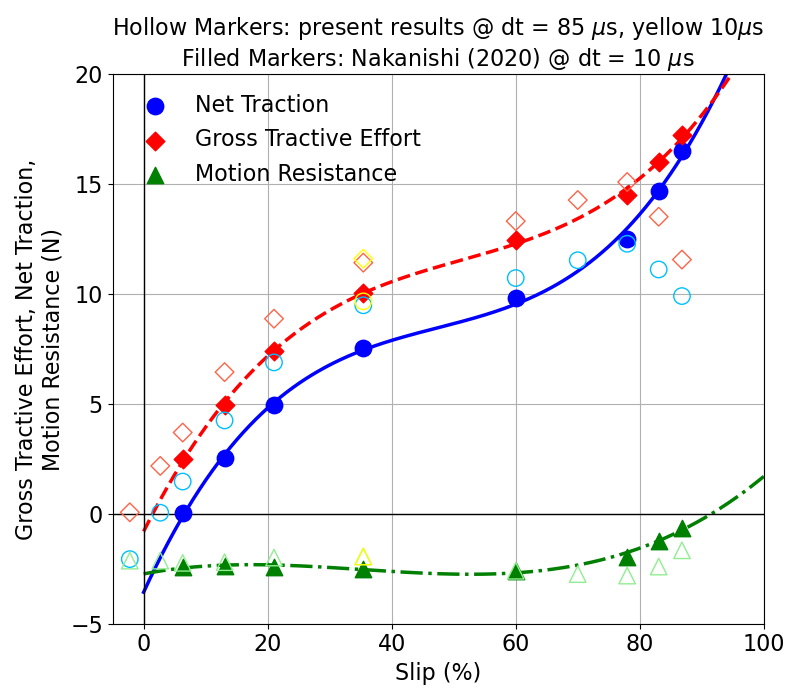
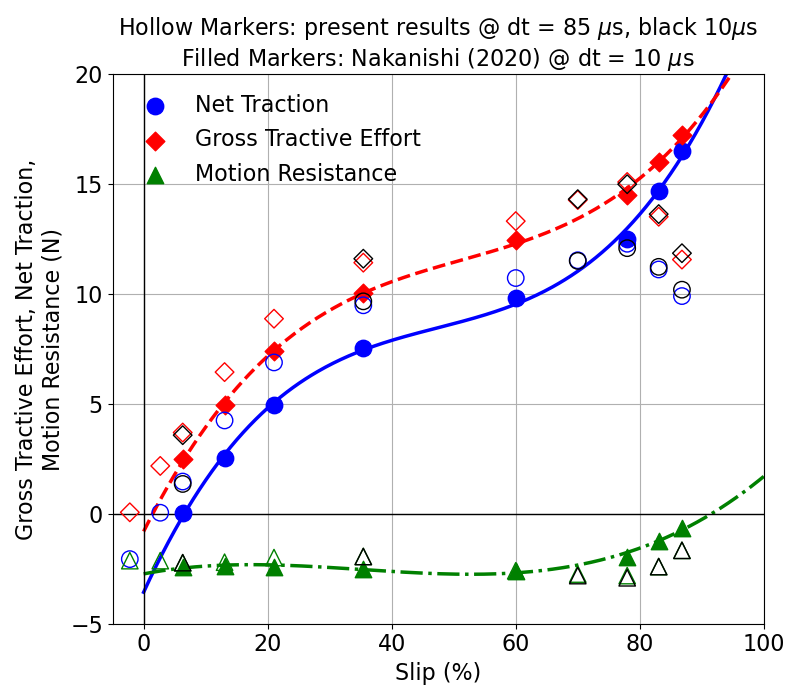
add dt=1us results @ 6.3 70 77.97 83.05 86.8% slips, rid light colors in Fig9.py

diff --git a/examples/Kyoto/Fig9.py b/examples/Kyoto/Fig9.py
@@ -43,9 +43,9 @@ plt.plot(x_smooth, poly_net(x_smooth),
 plt.scatter(x, y_net,
             color='blue', s=140, label='Net Traction', zorder=3)
 plt.scatter(xj, yj_net, facecolor='None',
-            color='deepskyblue', s=140, zorder=4)
+            color='blue', s=140, zorder=4)
 plt.scatter(x10mus, y10mus_net, facecolor='None',
-            color='yellow', s=140, zorder=4)
+            color='black', s=140, zorder=4)
 
 # Gross Tractive Effort
 plt.plot(x_smooth, poly_gross(x_smooth),
@@ -54,10 +54,10 @@ plt.scatter(x, y_gross,
             color='red', marker='D', s=90,
             label='Gross Tractive Effort', zorder=3)
 plt.scatter(xj, yj_gross,
-            color='tomato', marker='D', s=90, facecolor='None',
+            color='red', marker='D', s=90, facecolor='None',
             zorder=4)
 plt.scatter(x10mus, y10mus_gross,
-            color='yellow', marker='D', s=90, facecolor='None',
+            color='black', marker='D', s=90, facecolor='None',
             zorder=4)
 
 # Motion Resistance
@@ -67,10 +67,10 @@ plt.scatter(x, y_res,
             color='green', marker='^', s=140,
             label='Motion Resistance', zorder=3)
 plt.scatter(xj, -(yj_gross - yj_net), facecolor='None',
-            color='lightgreen', marker='^', s=140,
+            color='green', marker='^', s=140,
             zorder=4)
 plt.scatter(x10mus, -(y10mus_gross - y10mus_net), facecolor='None',
-            color='yellow', marker='^', s=140,
+            color='black', marker='^', s=140,
             zorder=4)
 plt.axhline(y=0, color='black', linestyle='-', linewidth=1.0)
 plt.axvline(x=0, color='black', linestyle='-', linewidth=1.0)
@@ -83,7 +83,7 @@ plt.ylim(-5, 20)
 plt.xticks([0, 20, 40, 60, 80, 100], fontsize=16)
 plt.yticks([-5, 0, 5, 10, 15, 20], fontsize=16)
 
-plt.title(r"Hollow Markers: present results @ dt = 85 $\mu$s, yellow 10$\mu$s "+ "\n"
+plt.title(r"Hollow Markers: present results @ dt = 85 $\mu$s, black 10$\mu$s "+ "\n"
           r"Filled Markers: Nakanishi (2020) @ dt = 10 $\mu$s",
           fontsize = 16)
 plt.legend(loc='upper left', frameon=False, fontsize=16)
